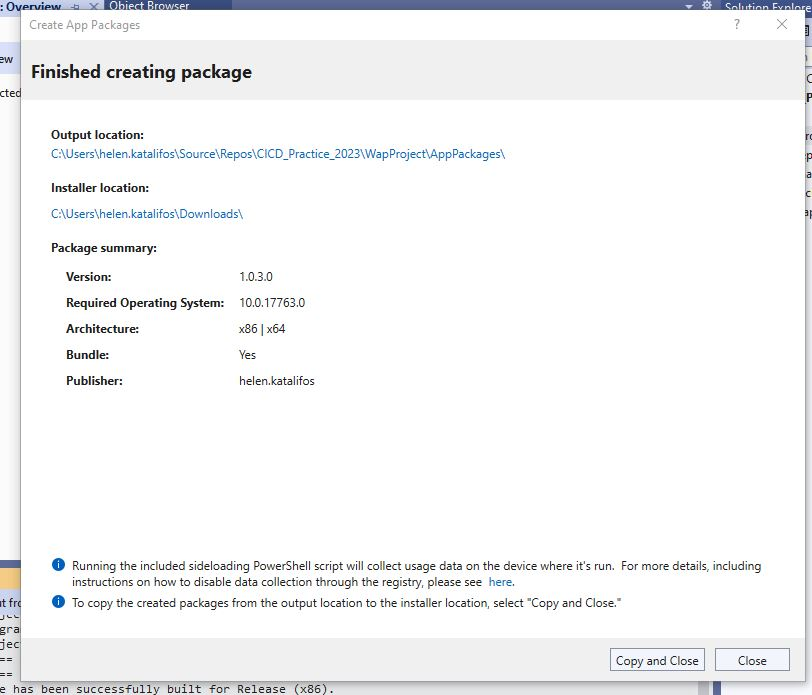
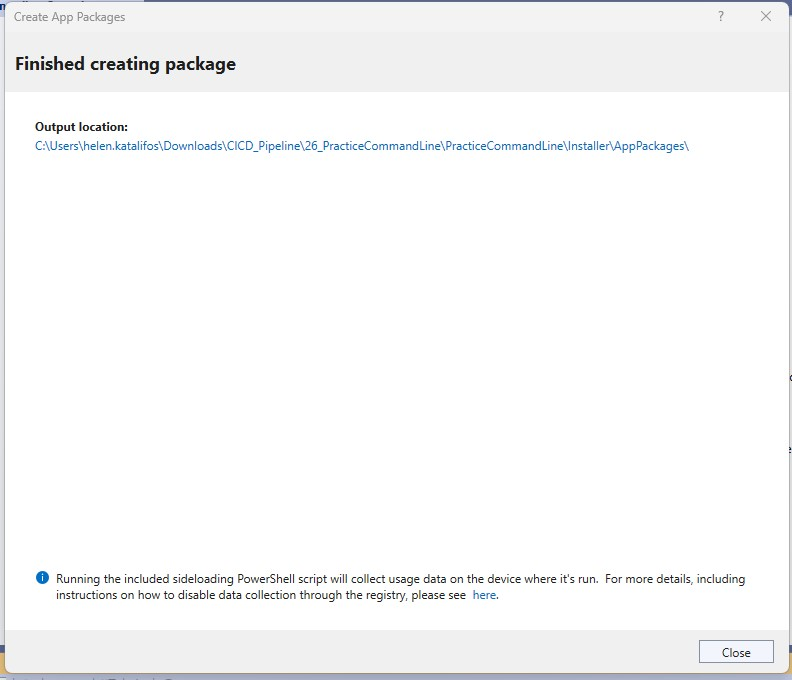
Update installer notes and images

Changed region(s): [[0.0, 0.0, 1.0, 1.0], [0.303, 0.3706, 0.3939, 0.5559]]

diff --git a/30_Installer_WAP.md b/30_Installer_WAP.md
@@ -1,0 +1,331 @@
+# Creating an Installer
+
+## Information you need for later
+
+### Determining which architecture your application is built for (x32, x64)
+
+The default architecture in visual studio is `Any CPU`.
+
+![image-20220418101408149](./Images/vs_setting_architecture.png)
+
+
+
+* You can select Build -> Configuration Manager to specify what should happen with each of your projects when your app is built on different architectures. 
+
+  
+
+![image-20230424024156495](./Images/WAPP_Configuration_Manager.JPG)
+
+
+
+# Creating an Installer (`setup.exe`)
+
+## Can’t we just copy over the exe?
+
+Beyond the application executable, an application often involves more components
+
+* generic `dll`s, such as `HomeBudget.dll`, `sqlite.dll`
+* specific `dll`s to match the processor (64 vs 32 bit), such as `sqlite.Interop.dll`
+
+In addition to the necessary files, there is often the request to add the application to the desktop, and/or the windows menu. Modern installers include ways to update and digitally sign the app files.
+
+
+
+## Application executable versus Setup executable versus Microsoft Installer
+
+### Application Executable
+
+When you build your solution or project, it will create an application executable, example: `myApp.exe`
+
+### Older Windows desktop app installer: Setup Executable and `msi` file
+
+Used to create a Windows msi installer that would generate a `setup.exe` and a Microsoft installer `myApp.msi`.
+
+`setup.exe`: 
+
+* an executable that acts as a bootstrapper. It verifies that the the software program can be installed on the computer and then allows the user to interact with the installer. Internally it uses (one or more) `*.msi` file(s).
+
+`msi file`:
+
+* a database that contains the information: 
+  * the exe files for the application, 
+  * configuration and registry settings, 
+  * custom actions, 
+  * relevant files, etc
+
+*It is always a good idea to run `setup.exe` and **not** the `*.msi` directly*
+
+
+* `msi` files allow IT people to create automated installs that bypass the user interaction with the installer.
+
+### New Microsoft Installer (`msix` file): 
+
+In 2018, Microsoft introduced the `msix` app packaging format which 
+
+* uninstalls more cleanly (registry changes, files created throughout the system)
+* installs the program in a container
+* allows you to publish to the Microsoft Store.
+
+![MSIX Package Diagram](./Images/msixpackage.png)
+
+
+
+# Creating an `MSIX` Installer for `HomeBudget`
+
+## Preparation
+
+### Do you need to add the UWP option in Visual Studio?
+
+Check if you can add a Windows Application Packaging project in your solution. If you can't, you need to add the Universal Windows Platform development option in VS:
+
+`Tools`->`Get Tools and Features...`
+
+Check the Windows Application development option or the Universal Windows Platform development option, whichever you see under Desktop & Mobile:
+
+<img src="./Images/UWP_Option_VS.JPG" />
+
+> 
+
+### Create a `WAPP` project
+
+With the extension installed, create a new **Windows Application Packaging Project** in the ***same solution*** as your application.
+
+<img src="./Images/WAPP_Project.JPG" />
+
+
+
+## Windows version:
+
+> You could keep the defaults for the minimum Windows versions to install on. The minimum version limits the features you want to include, for example. You would consider your customer base to make sure to make your application accessible to most.
+
+
+
+You may ignore any warning about requiring the Developer Mode for Windows.
+
+
+
+## Link the Application to install
+
+On the Installer project, set the application that this will install. On the WAP project, select `Dependencies`. Right-click to select `Add Project Reference...`
+
+![image-20230417040917029](./Images/Add_WAPP_Project.JPG)
+
+
+
+Select your `CICD_Practice` application. Note that any assemblies the application depends on will be automatically be brought in by the installer.
+
+Should you also choose the xunit unit testing project? Why or why not?
+
+
+
+## Package Configuration
+
+Double-click the `Package.appxmanifest` file in the project. The manifest allows you to configure the installer.
+
+![image-20230424015454981](./Images/WAPP_Package_manifest.JPG)
+
+
+
+### Display name
+
+Customize the installed application's display name. Describe your app in the description field.
+
+
+
+### Icons
+
+In Visual Assets, you will be able to se the Icons for your application. More on this next week.
+
+
+
+### Packaging
+
+Leave the Package name (a unique Id) as is.
+
+Set the package display name. The default first version of 1.0.0 makes sense.
+
+
+
+### Certificate
+
+A signed package gives the user of the installer package the certainty that the code comes from a trusted source.
+
+You sign your package with your certificate. 
+
+A proper certificate would be a certified trusted certificate. You would need to involve a trusted authority (Comodo, for example) that you would pay annually to obtain a certificate for signing your code so that people you give it to can trust it. 
+
+Since we are only distributing our application internally, no one we don't know needs to trust us. We will generate a dev certificate to sign our installer package with. We will not bother getting this certificate authenticated by a trusted authority.
+
+
+
+#### Generate a dev certificate
+
+In the Packaging page, select `Choose Certificate...` and `Create...`
+
+You could enter your Team name as the Publisher Common Name. 
+
+Choose a password that you will **not lose**! Enter it in the Confirm your password field too.
+
+Click Ok to create the certificate.
+
+Note that when you View the certificate, `View Full Certificate`, it is clearly  indicated that the certificate is not trusted. 
+
+![image-20230424020921468](./Images/WAPP_dev_certificate.JPG)
+
+
+
+The certificate expires in a year. When we use the installer that our build will generate, we will have to indicate that we "trust it". Click `Ok`.
+
+Click `Ok` to choose this certificate. You could select `Ok` on the warning.
+
+The certificate is now chosen for the installer.
+
+Note that a pfx file that has now been added to the project. This file holds all the signing information for the certificate. Signing involves some private information that you do not share and public information you provide.  
+
+![image-20230427020038796](./Images/WAPP_PFXFile.PNG)
+
+You can now save and close the manifest file.
+
+We have specified the installer details.  Now we must build it.
+
+
+
+## Build the installer
+
+Rebuild your solution.
+
+Note that MSIX allows you to publish your desktop app to the Microsoft Store. We will not be doing this. Instead, we will be using the option to create a local installer instead. To distribute your application you could give any 'customer'  the installer.
+
+To build the installer, right-click on your installer project and choose `Publish -> Create App packages...`
+
+![image-20230504003655502](./Images/WAPP_publish_menu.PNG)
+
+As we will not be publishing our apps on the Microsoft Store, we will keep the `Sideloading` option checked.
+
+![image-20230424022421100](./Images/WAPP_Sideloading.JPG)
+
+
+
+Click `Next`.
+
+We will use the dev certificate we created earlier. It should appear and be selected by default.
+
+
+
+![image-20230427020927169](./Images/WAPP_sign_certificate.PNG)
+
+
+
+Click `Next`.
+
+Next, we see the architectures we are choosing to support in our installer. Leave this as is for now.  
+
+In 'Output location' set the location where the installer will be placed once built. This could be a URL (if you were providing this installer on a webserver), or a folder. 
+
+Once a user installs your application, future updates will be looked for in that folder.
+
+Choose `Create`.
+
+
+
+#### Configuration Architectures
+
+The creation of the installer fails with errors about mismatches in the architectures. We need to be more specific about how our projects will be built for different architectures. 
+
+With the main CICD_Practice project selected, choose `Build -> Configuration Manager`. 
+
+Set up the following configurations:
+
+	Choose Release as the Active solution configuration.
+
+	Change the Active solution platform to x64. Change all the projects to be built for x64:
+
+		Choose `Platform -> <New...>`.  In the `New Project platform dialog`, unselect the `Create new solution platforms` checkbox and  then select `x64` in the `New Platform` dropdown 
+
+![image-20230427020038796](./Images/NewPlatformConfiguration_Installer.png)
+
+	Make the same changes for x86. Change the Active solution platform to x86. For each project, set x86 as the platform as you did for x64..
+
+![image-20230424025439541](./Images/WAPP_configuration_projects.JPG)
+
+![image-20230504020328106](./Images/WAPP_x86Configuration.PNG)
+
+Regenerate the Installer:
+
+	Right-click on your installer project and choose `Publish -> Create App packages...`
+
+In the `Select and configure packages` page, select the x86 and x64 architectures, instead of the generic Neutral:
+
+![image-20230424025234415](./Images/WAPP_select_architectures.JPG)
+
+
+
+Click `Create` to create the Installer. This takes some time.
+
+When it is done, a `Finished creating package` dialog will appear:
+
+![image-20230424030748154](./Images/Wapp_finished_creating_package.JPG)
+
+
+
+> Clicking on the output location link will take you to the installer files 
+>
+
+In the installer directory, the installer bundle and the public security certificate information (the `.cer` file) appear in the Installer folder.
+
+![image-20230424031106894](./Images/WAPP_installer_certificate.JPG)
+
+
+
+Click `Copy and Close` to have the installer copied to the Installer location. 
+
+You could launch the installer from the bundle file.
+
+Note that you are blocked from installing the application. This is because the certificate is not trusted! Since you know that you created the certificate you could indicate that you trust the certificate below.
+
+
+
+#### Trust the dev certificate
+
+In order to be able to use this 'signed' certificate we have to tell Windows that we trust it. To do this, we will add the certificate we made to our list of trusted certificates on our machines manually.
+
+Double-click the public .cer certificate file to see that it is your certificate.
+
+Right-click on the .cer file to choose `Install certificate`. 
+
+Choose `Local Machine`
+
+For the Certificate store, choose `Trusted Root Certification Authorities`
+
+
+
+![image-20230424032209019](./Images/WAPP_Certificate_Store.JPG)
+
+
+
+
+
+Note: Normally, in a company, you would have your company's certificate trusted by everyone. If it is not your company's application, you would want to make sure that the certificate is verified by a trusted authority.
+
+You could go to Windows Manage user certificates to delete the certificates when done. 
+
+
+
+### Install
+
+* Double click the msixbundle file to install your application.
+
+	> To test the installer, you must run  it **AS ADMINISTRATOR**. 
+
+* Select  `Install`.
+
+  
+
+#### Validate
+* Note that every build of the installer object increments the version number.
+* You should see:
+  * Your company name as a folder in the Start menu with your application in it. 
+  * The application is launched by default.
+    * It works (all DLLs and the application exe are present). 
+  * Rerunning the installer attempts an update
+
